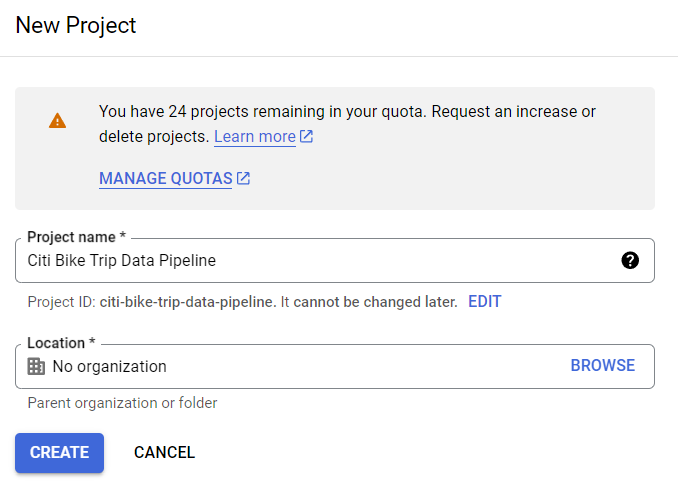
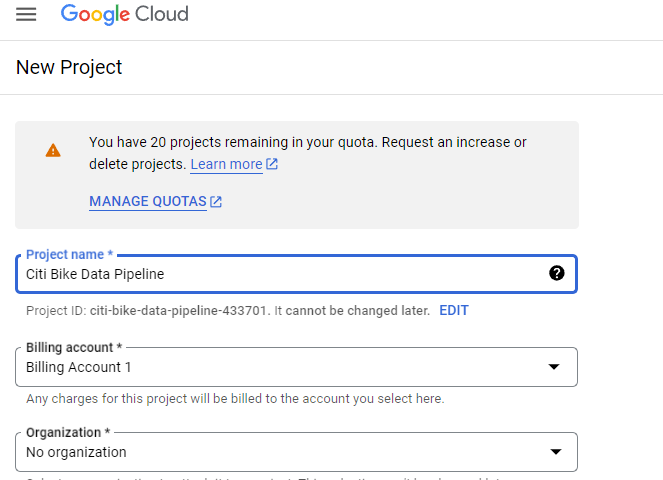
Update Read.me

diff --git a/code/mage/mage-citibike/data_loaders/load_api_data_.py b/code/mage/mage-citibike/data_loaders/load_api_data_.py
@@ -1,0 +1,69 @@
+import io
+import pandas as pd
+import requests
+from zipfile import ZipFile
+if 'data_loader' not in globals():
+    from mage_ai.data_preparation.decorators import data_loader
+if 'test' not in globals():
+    from mage_ai.data_preparation.decorators import test
+
+
+@data_loader
+def load_data_from_api(*args, **kwargs):
+
+    # define data types of the fields in the data
+    citibike_dtypes = {
+        'ride_id':str,
+        'rideable_type':str,
+        'start_station_name':str,
+        'start_station_id':str,
+        'end_station_name':str,
+        'end_station_id':str,
+        'start_lat':float,
+        'start_lng':float,
+        'end_lat':float,
+        'end_lng':float,
+        'member_casual':str,
+    }
+
+    # identify fields that are dates
+    parse_dates = ['started_at', 'ended_at']
+
+    # configure the URL using year and month
+    year = kwargs['execution_date'].year
+    month = kwargs['execution_date'].month
+    if month < 10:
+        month = '0' + str(month)
+    else:
+        month = str(month)
+    url = f'https://s3.amazonaws.com/tripdata/JC-{year}{month}-citibike-tripdata.csv.zip'
+    
+    # read the ZIP file from the URL
+    response = requests.get(url)
+    if response.status_code != 200:
+        raise Exception(f"Failed to download ZIP file from {url}")
+
+    with ZipFile(io.BytesIO(response.content)) as zip_file:
+        # get the list of files inside the ZIP archive
+        file_list = zip_file.namelist()
+        
+        # filter out the desired CSV files
+        csv_files = [file_name for file_name in file_list if file_name.endswith('.csv') and '/' not in file_name]
+        if len(csv_files) == 0:
+            raise ValueError("Expected one CSV file inside the ZIP archive.")
+        
+        # read the CSV files and concatenate multiple files
+        data = []
+        for csv_file in csv_files:
+            with zip_file.open(csv_file) as file:
+                data.append(pd.read_csv(file, sep=',', dtype=citibike_dtypes, parse_dates=parse_dates))
+        data = pd.concat(data)
+        print (f'Shape of the data: {data.shape}')
+
+        return data
+
+
+@test
+def test_output(output, *args) -> None:
+
+    assert output is not None, 'The output is undefined'

diff --git a/code/mage/mage-citibike/data_exporters/export_gcs_paritioned_.py b/code/mage/mage-citibike/data_exporters/export_gcs_paritioned_.py
@@ -1,0 +1,24 @@
+import pyarrow as pa
+import pyarrow.parquet as pq
+import os
+
+if 'data_exporter' not in globals():
+    from mage_ai.data_preparation.decorators import data_exporter
+
+os.environ['GOOGLE_APPLICATION_CREDENTIALS'] = "/home/src/keys/creds.json"
+project_id = 'citi-bike-data-pipeline'
+bucket_name = 'citibike_bucket_rebekam'
+table_name = 'citibike_tripdata'
+root_path = f'{bucket_name}/{table_name}'
+
+
+@data_exporter
+def export_data_to_google_cloud_storage(data, *args, **kwargs):
+    table = pa.Table.from_pandas(data)
+    gcs = pa.fs.GcsFileSystem()
+    pq.write_to_dataset(
+        table,
+        root_path=root_path,
+        partition_cols=['started_at_date'],
+        filesystem=gcs
+    )

diff --git a/code/mage/mage-citibike/transformers/transform_data_.py b/code/mage/mage-citibike/transformers/transform_data_.py
@@ -1,0 +1,22 @@
+if 'transformer' not in globals():
+    from mage_ai.data_preparation.decorators import transformer
+if 'test' not in globals():
+    from mage_ai.data_preparation.decorators import test
+
+
+@transformer
+def transform(data, *args, **kwargs):
+
+    # create a new column started_at_date by converting started_at to a date
+    data['started_at_date'] = data['started_at'].dt.date
+
+    # create a new column ended_at_date by converting ended_at to a date
+    data['ended_at_date'] = data['ended_at'].dt.date
+
+    return data
+
+
+@test
+def test_output(output, *args) -> None:
+
+    assert output is not None, 'The output is undefined'

diff --git a/README.md b/README.md
@@ -1,11 +1,11 @@
 <<<<<<< HEAD
-# Citi Bike Trip Data Pipeline
+# Citi Bike Data Pipeline
 
-This is my submission for [Data Engineering Zoomcamp 2024](https://github.com/DataTalksClub/data-engineering-zoomcamp) final project.
+This is my submission for Citi Bike Trip Data Analysis
 
 ## Problem Description
 
-Citi Bike is a public bicycle sharing system serving  New York City. In this project I have created a pipeline for Citi Bike trip data between `Jan 2022` and `Dec 2023` to answer the following questions:
+Citi Bike is a public bicycle sharing system serving  New York City. In this project I have created a pipeline for Citi Bike trip data between `Jan 2022` and `July 2024` to answer the following questions:
 
 - What are the top destinations for Citi Bikers?
 - What days of the week are most rides taken on?
@@ -48,7 +48,7 @@ The data includes the following fields:
 
 ## Data Visualization
 
-View the Looker Studio dashboard [here](https://lookerstudio.google.com/reporting/57b3e010-5c75-4286-81b0-220995285811).
+View the Looker Studio dashboard [here](https://lookerstudio.google.com/reporting/5a4def5e-634b-4e37-8fda-ef11a5c24558).
 
 ![](docs/res/looker-dashboard.png)
 
@@ -56,5 +56,3 @@ View the Looker Studio dashboard [here](https://lookerstudio.google.com/reportin
 
 To reproduce the project and test the code yourself, follow these [instructions](docs/reproduce.md).
 =======
-# Citi-Bike-Trip
->>>>>>> c1746865e59daccb37265e70c69998bd367b2758

diff --git a/docs/reproduce.md b/docs/reproduce.md
@@ -339,13 +339,13 @@ Both should return `1887984`
 
 Navigate to [Google Looker Studio](https://lookerstudio.google.com/). 
 
-Click on **Create** > **Data source** > **BigQuery** > authorize BigQuery > select the Project (`Citi Bike Trip Data Pipeline`) > Dataset (`dbt_rmukherjee`) > Table (`fact_citibike_trips`) > **CONNECT**.
+Click on **Create** > **Data source** > **BigQuery** > authorize BigQuery > select the Project (`Citi Bike Data Pipeline`) > Dataset (`dbt_rmukherjee`) > Table (`fact_citibike_trips`) > **CONNECT**.
 
 ![](res/looker-studio-bigquery.png)
 
 Change the default aggregation of categorical fields from `Sum` to `None`. Then, click on **CREATE REPORT** > **ADD TO REPORT**.
 
-Rename the report as **Citi Bike Trip Data Analysis 2022-2023**.
+Rename the report as **Citi Bike Data Analysis 2022-2024**.
 
 ### Total Trips Recorded
 
